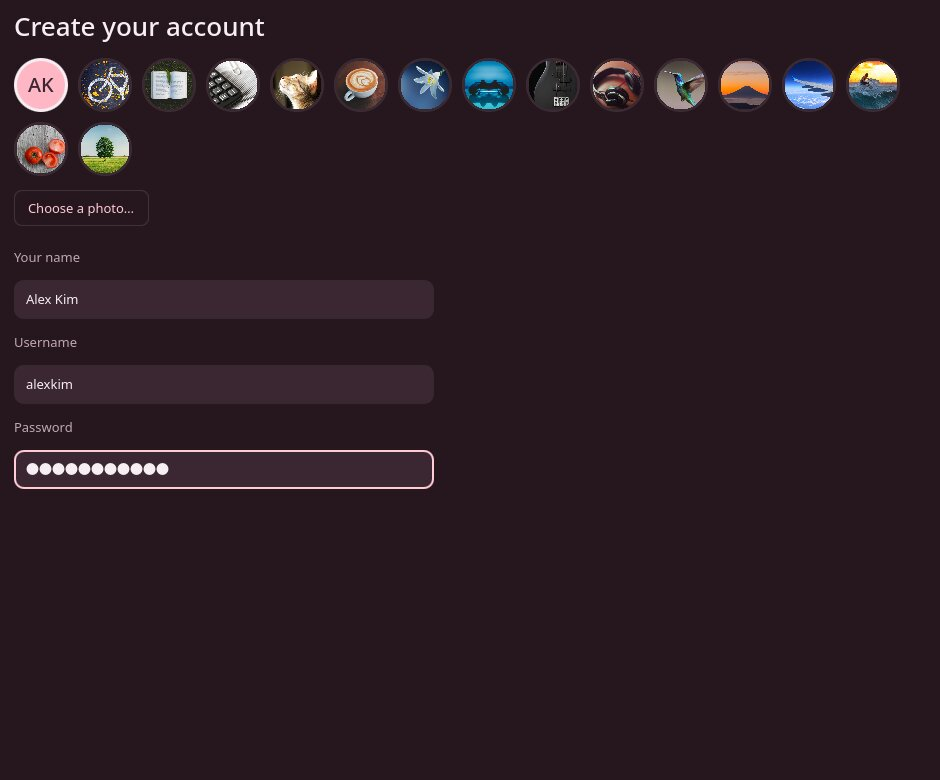
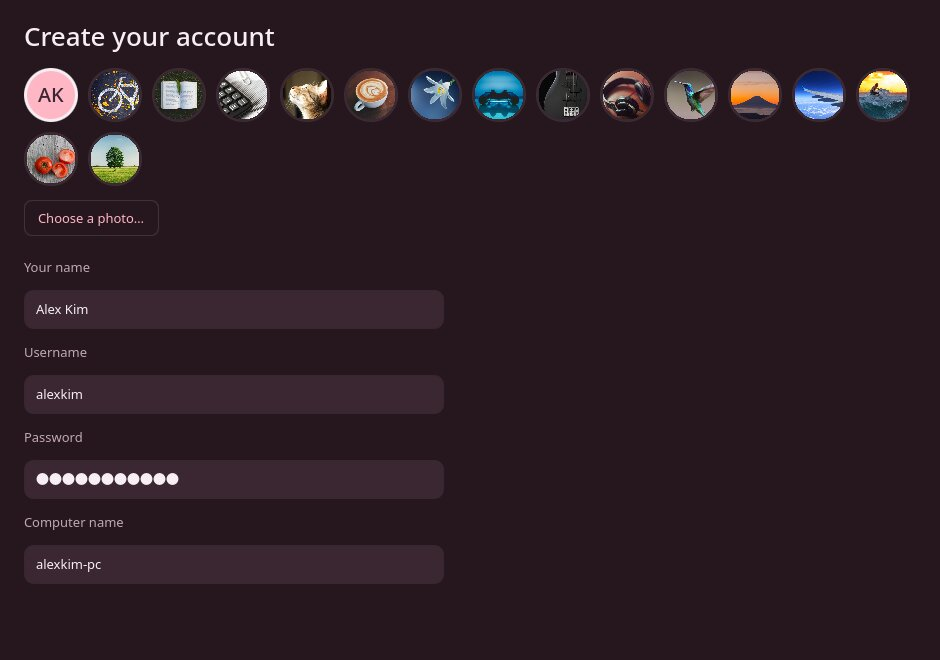
Wiki: installer screenshots for the account screen and legible buttons
The account screen now asks for a computer name, and the welcome screen's
buttons have dark text.

diff --git a/site/docs/install.html b/site/docs/install.html
@@ -127,7 +127,7 @@
 
 <h2>Account</h2>
 <figure>
-  <img src="/img/installer-account.jpg" alt="The Create your account screen, with a picture, name, username and password filled in" width="940" height="780" loading="lazy">
+  <img src="/img/installer-account.jpg" alt="The Create your account screen, with a picture, name, username, password and computer name filled in" width="940" height="660" loading="lazy">
 </figure>
 <p>
   Choose a picture, then type your name. Your username fills in from it; you
